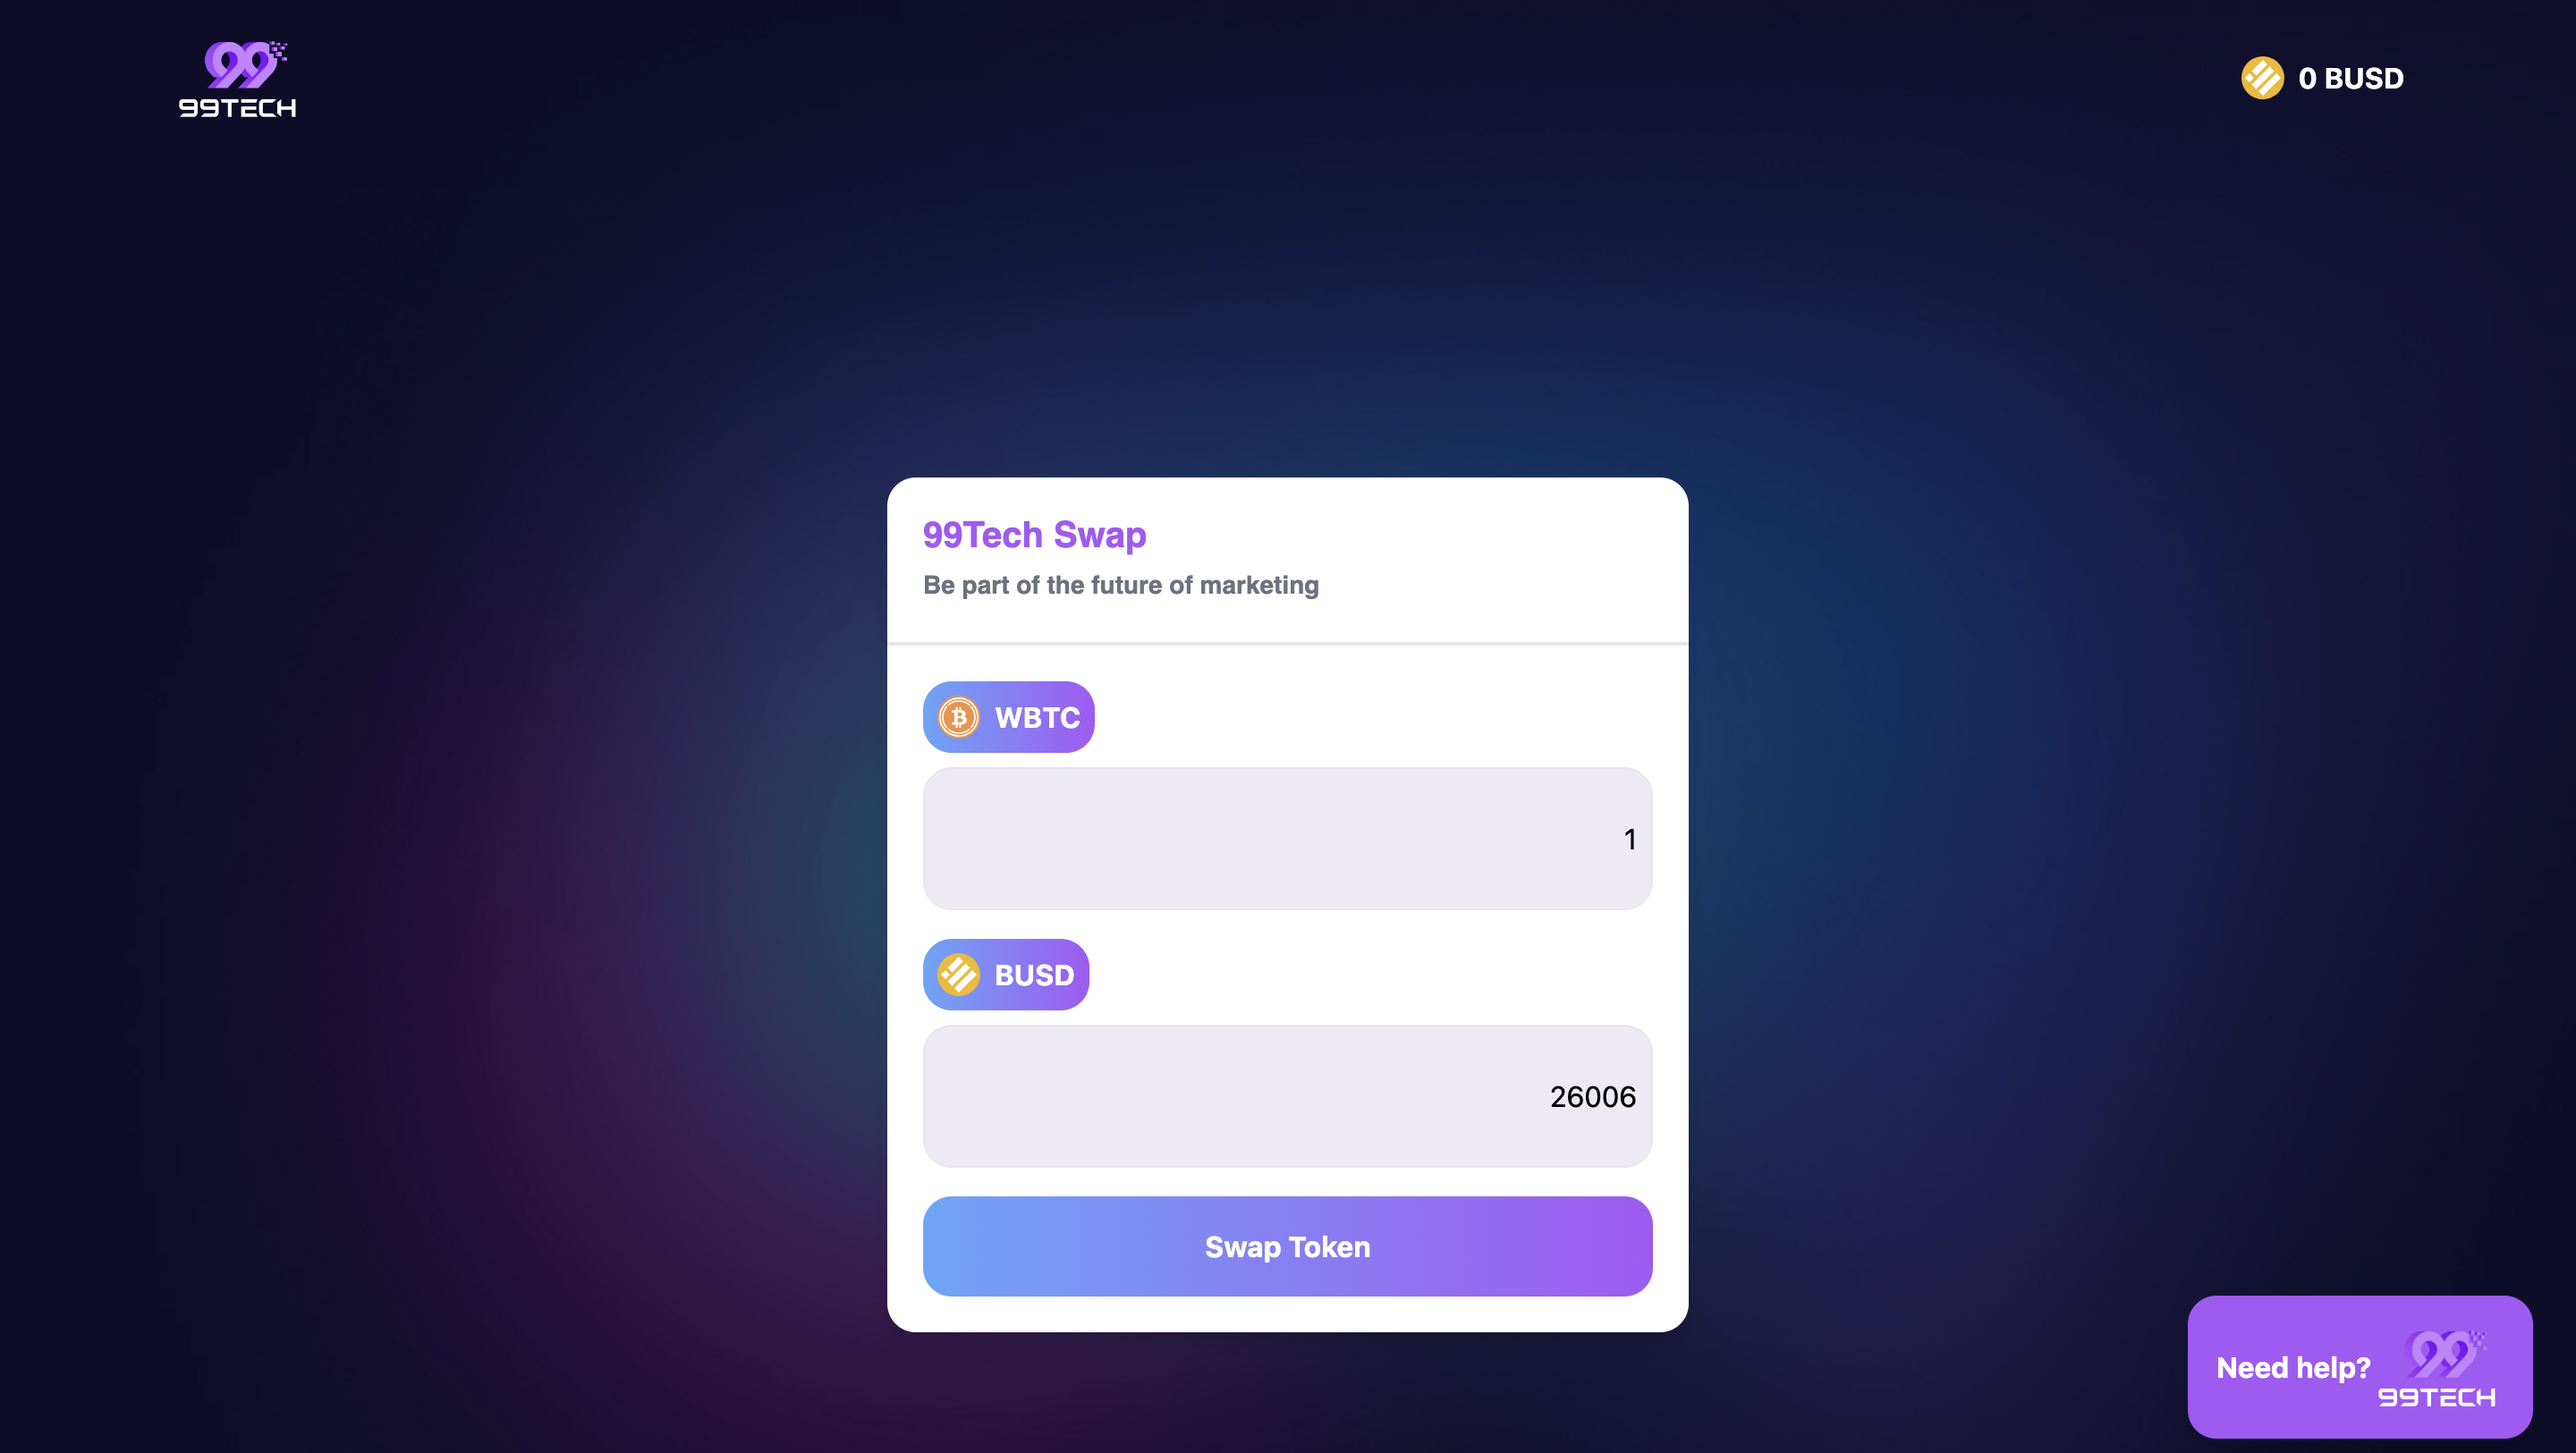
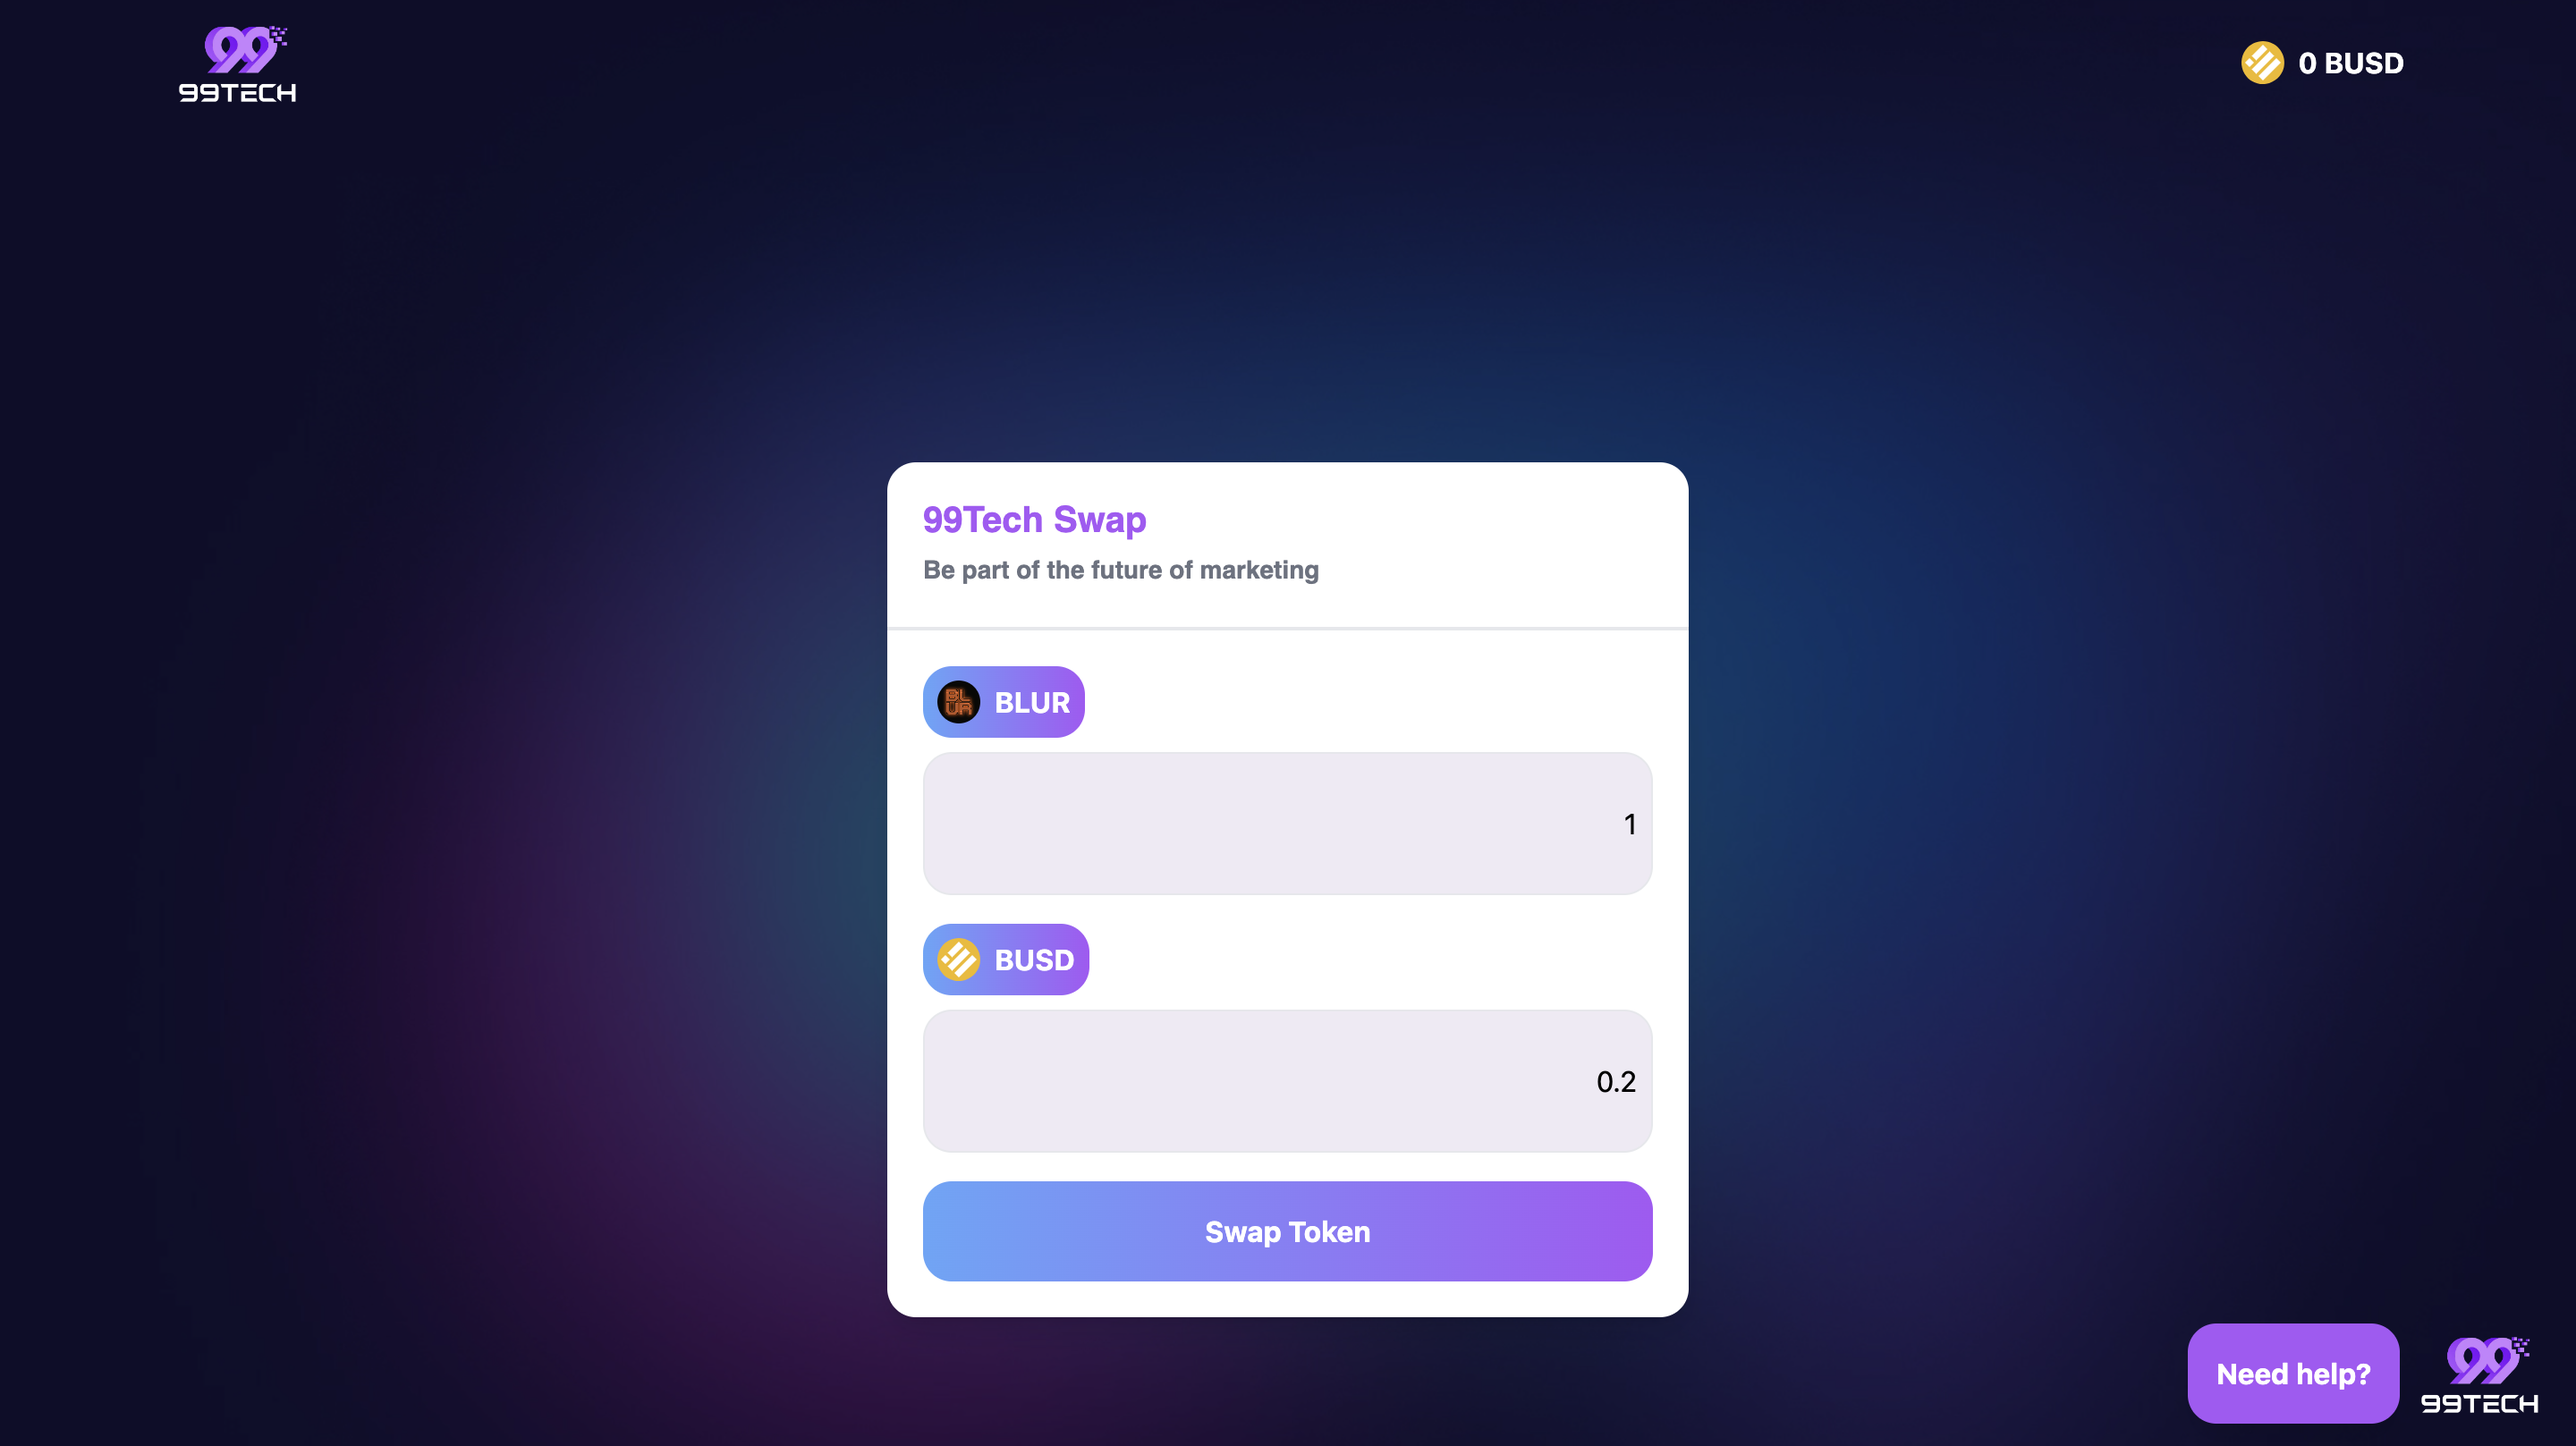
fix(TokenModal): resolve issue where modal jumps position on render

diff --git a/src/problem2/currency-swap/src/App.js b/src/problem2/currency-swap/src/App.js
@@ -255,15 +255,17 @@ const App = () => {
         )}
       </div>
 
-      <a
-        href="https://www.99tech.co/"
-        className="absolute py-3 bottom-24 right-4 mr-2 flex items-center bg-purple-500 text-white px-4 py-2 rounded-2xl shadow-lg"
-      >
-        <div className="flex items-center font-bold">Need help?</div>
+      <div className="flex items-center justify-end space-x-2 absolute bottom-24 right-4">
+        <a
+          href="https://www.99tech.co/"
+          className="flex items-center bg-purple-500 text-white px-4 py-4 rounded-2xl shadow-lg"
+        >
+          <div className="font-bold">Need help?</div>
+        </a>
         <div className="relative">
           <img src={logo99Tech} className="h-14" alt="Logo" />
         </div>
-      </a>
+      </div>
     </div>
   );
 };

diff --git a/src/problem2/currency-swap/src/components/TokenModal.js b/src/problem2/currency-swap/src/components/TokenModal.js
@@ -17,7 +17,7 @@ const TokenModal = ({
 
   return (
     <div className="fixed inset-0 bg-black bg-opacity-50 flex items-center justify-center">
-      <div className="bg-white p-5 rounded-2xl shadow-lg w-80">
+      <div className="bg-white p-5 rounded-2xl shadow-lg min-h-96 w-80">
         <div className="flex justify-between items-center mb-4">
           <h2 className="text-xl text-purple-500  font-bold">Select a Token</h2>
           <button onClick={onClose} className="text-xl">
